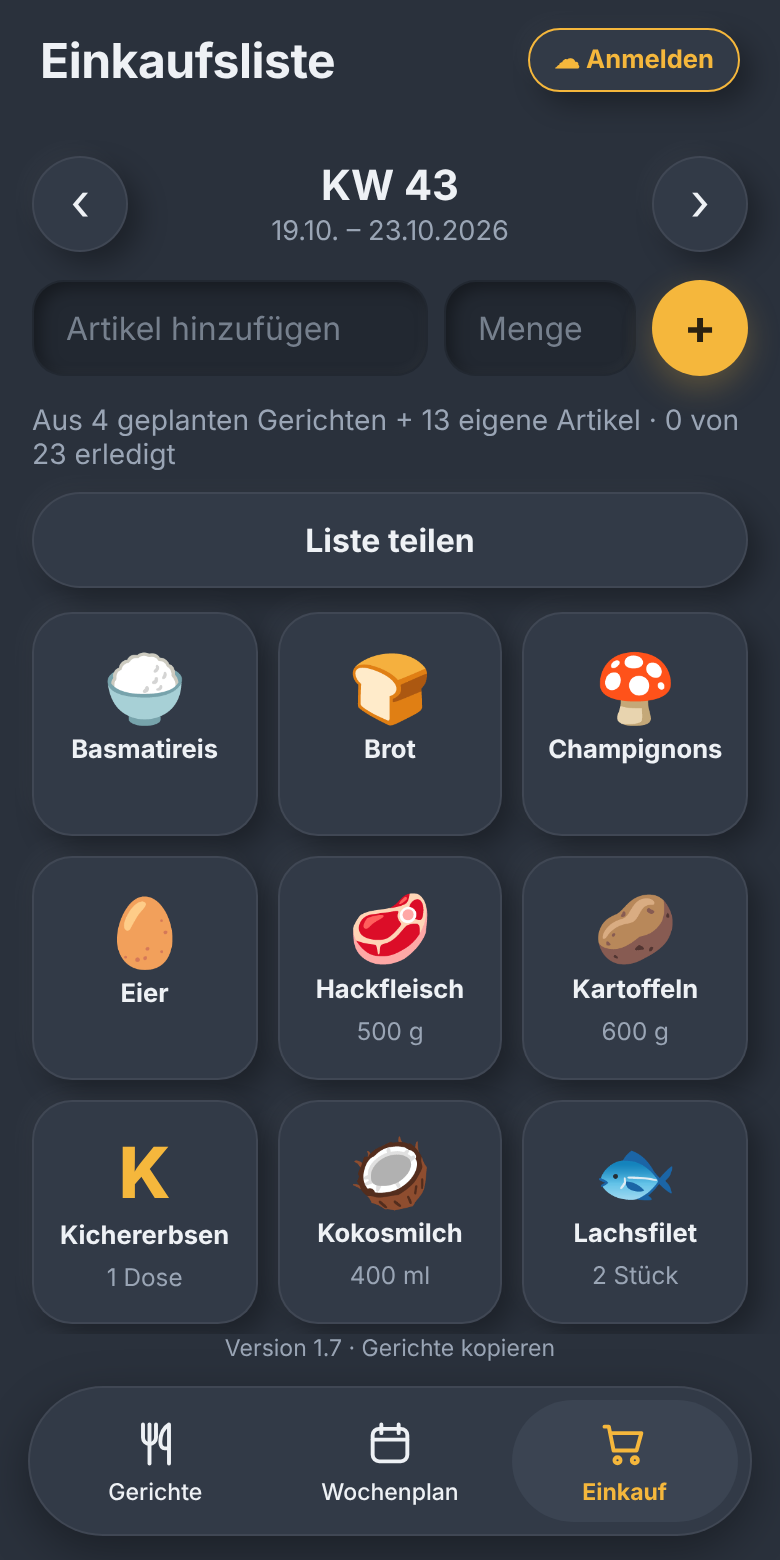
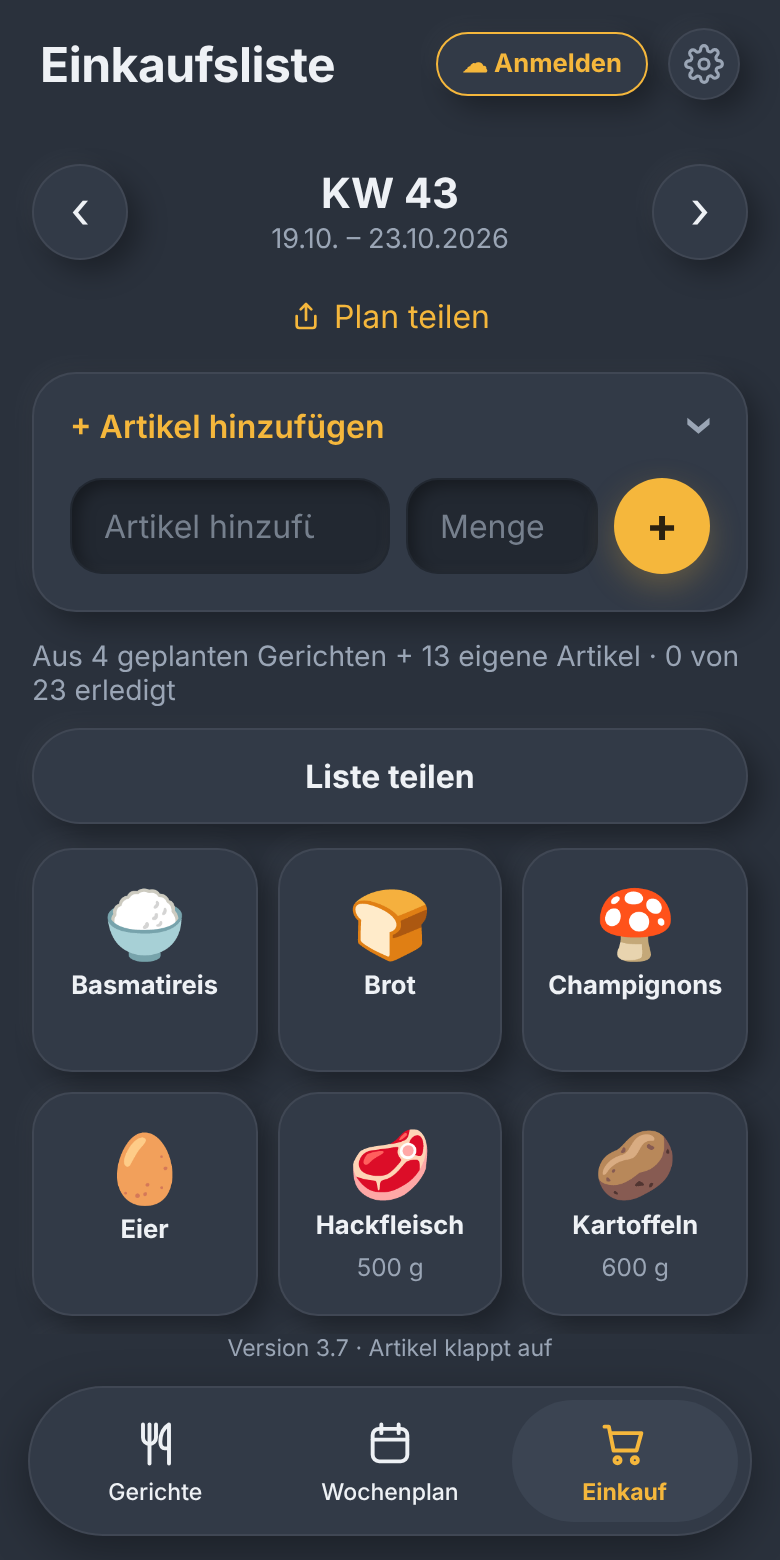
Version 3.7: Artikel hinzufügen auf der Einkaufsliste klappt auf
Claude-Session: https://claude.ai/code/session_01JENwE74wMgTKySNLWYJAoh

diff --git a/app.js b/app.js
@@ -1626,7 +1626,7 @@ function einkaufZeichnen() {
   const offen = alle.filter(function (x) { return !x.erledigt; });
   const erledigt = alle.filter(function (x) { return x.erledigt; });
 
-  const hatteFokus = document.activeElement && document.activeElement.id === "extra-name";
+  const hatteFokus = extraOffen && document.activeElement && document.activeElement.id === "extra-name";
   const teile = wochenKopf();
   teile.push(extraEingabe(woche));
 
@@ -1710,6 +1710,8 @@ function extraMengenSummieren(alt, neu) {
   return alt + " + " + neu;
 }
 
+let extraOffen = false; // Eingabe unter "Artikel hinzufügen" aufgeklappt?
+
 // Eingabezeile für eigene Artikel (Name, optionale Menge) mit Vorschlägen aus früheren Einträgen.
 function extraEingabe(woche) {
   const name = el("input", {
@@ -1722,13 +1724,27 @@ function extraEingabe(woche) {
   });
   name.addEventListener("input", function () { extraEntwurf.name = name.value; });
   menge.addEventListener("input", function () { extraEntwurf.menge = menge.value; });
-  return el("form", {
+  const formular = el("form", {
     class: "extra-form",
+    hidden: !extraOffen,
     onsubmit: function (e) { e.preventDefault(); extraHinzufuegen(woche, name.value, menge.value); }
   },
     name, menge,
     el("button", { class: "knopf knopf-primaer extra-plus", type: "submit", "aria-label": "Zur Liste hinzufügen", text: "+" })
   );
+  const kopf = el("button", { class: "import-kopf", type: "button", "aria-expanded": extraOffen ? "true" : "false" },
+    el("span", { class: "import-titel", text: "+ Artikel hinzufügen" }),
+    el("span", { class: "import-pfeil", text: "›" })
+  );
+  const huelle = el("div", { class: "karte import-karte extra-karte" + (extraOffen ? " offen" : "") }, kopf, formular);
+  kopf.addEventListener("click", function () {
+    extraOffen = !extraOffen;
+    formular.hidden = !extraOffen;
+    huelle.classList.toggle("offen", extraOffen);
+    kopf.setAttribute("aria-expanded", extraOffen ? "true" : "false");
+    if (extraOffen) name.focus();
+  });
+  return huelle;
 }
 
 function extraZeile(e) {

diff --git a/style.css b/style.css
@@ -754,3 +754,6 @@ main { touch-action: pan-y; }
 .import-pfeil { font-size: 1.5rem; line-height: 1; color: var(--text-leise); transition: transform 0.2s; }
 .import-karte.offen .import-pfeil { transform: rotate(90deg); }
 .import-inhalt { padding: 0 18px 18px; }
+
+.extra-karte .extra-form { margin: 0; padding: 0 18px 18px; }
+.extra-form[hidden] { display: none; }

diff --git a/sw.js b/sw.js
@@ -2,7 +2,7 @@
 // Strategie: Wenn das Netz da ist, wird immer die neueste Version geladen.
 // Ohne Netz startet die App aus dem Zwischenspeicher (offline).
 // Bei Änderungen an der Dateiliste unten die Versionsnummer erhöhen.
-const VERSION = "essensplan-v42";
+const VERSION = "essensplan-v43";
 const DATEIEN = [
   "./",
   "index.html",

diff --git a/index.html b/index.html
@@ -72,7 +72,7 @@
     <section id="einkauf" class="ansicht"></section>
   </main>
 
-  <footer class="version">Version 3.6 · Import klappt auf</footer>
+  <footer class="version">Version 3.7 · Artikel klappt auf</footer>
 
   <nav>
     <button class="aktiv" data-ziel="gerichte" data-titel="Gerichte">
